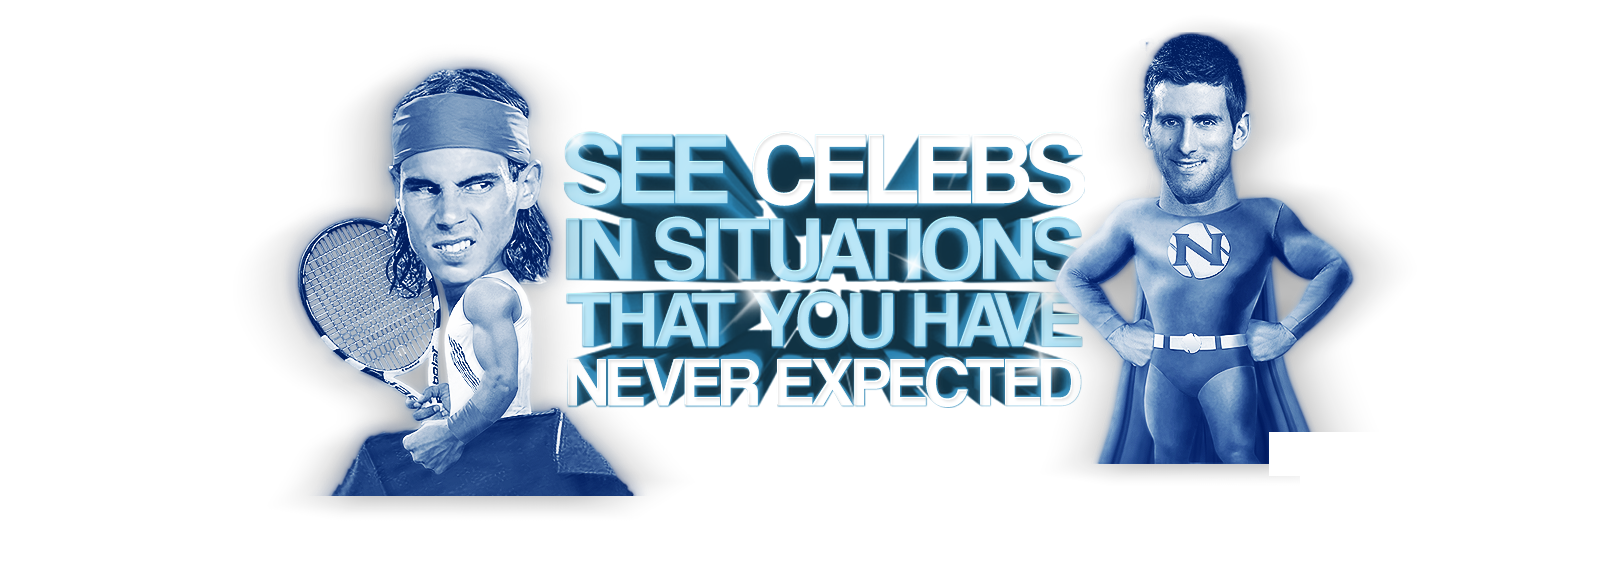
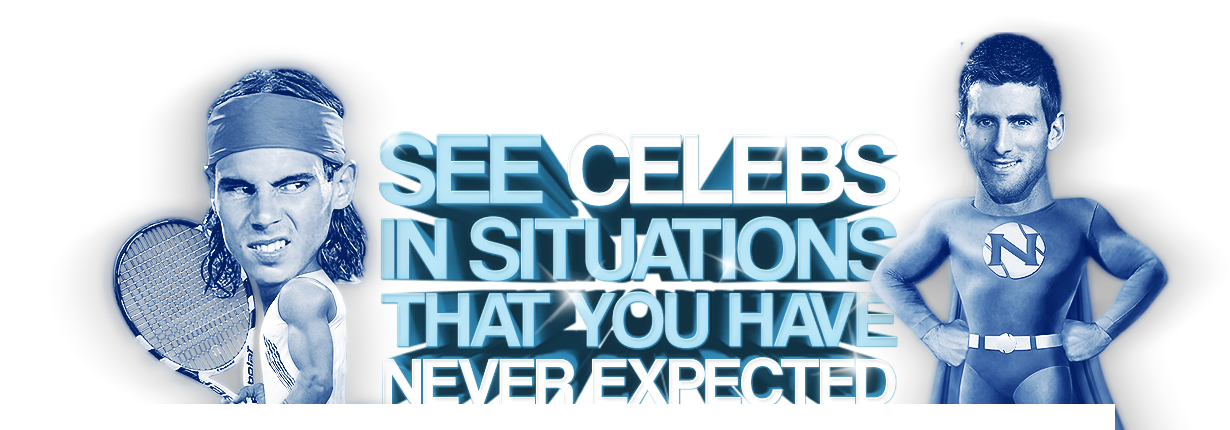
[ADD] Carousel images; [CHG] Minor layout fixes; [CHG] Header image;

diff --git a/pp/css/style.css b/pp/css/style.css
@@ -64,9 +64,11 @@ body {
 }
 
 #characterContainer {
+	margin: auto;
+	/*width: 1600px;*/
 	height: 370px;
-	/*background: url("../images/header2.png") no-repeat;*/
-	/*background-position: -173px -70px;*/
+	background: url("../images/header2.png") no-repeat;
+	background-position: center -60px;
 }
 
 #character1 {
@@ -108,6 +110,18 @@ body {
 #gallerySeparator:hover {
 	height: 28px;
 	background: url("../images/gallerySeparatorOver.png") no-repeat;
+	background-position: 30px 21px;
+}
+
+#gallerySeparator2 {
+	height: 28px;
+	background: url("../images/gallerySeparator2.png") no-repeat;
+	background-position: 30px 21px;
+}
+
+#gallerySeparator2:hover {
+	height: 28px;
+	background: url("../images/gallerySeparator2Over.png") no-repeat;
 	background-position: 30px 21px;
 }
 
@@ -221,7 +235,7 @@ body {
 }
 
 .mustReadImage {
-	margin: 0 10px 0 74px;
+	margin: 0 20px 0 57px;
 	height: 187px;
 	width: 187px;
 	float: left;
@@ -229,8 +243,8 @@ body {
 
 .latestNewsImage {
 	margin: 0 10px 0 74px;
-	height: 187px;
-	width: 187px;
+	height: 200px;
+	width: 200px;
 	float: left;
 }
 
@@ -391,7 +405,7 @@ body {
 }
 
 .latestNewsRow {
-	border-bottom: solid 2px #969699;
+	/*border-bottom: solid 2px #969699;*/
 	padding: 30px 0 10px 0;
 }
 
@@ -413,13 +427,13 @@ body {
 	/*padding: 15px 0 40px 30px;*/
 	width: 253px;
 	height: 343px;
-	background-image: url('../images/news50Cent2.png');
+	background-image: url('../images/news50Cent2.jpg');
 	background-repeat: no-repeat;
 	background-position: 30px 15px;
 }
 
 #newsOtherNextMonth:hover {
-	background-image: url('../images/news50Cent-over.png');
+	background-image: url('../images/news50Cent-over.jpg');
 	background-repeat: no-repeat;
 	background-position: 30px 15px;
 }

diff --git a/pp/galleryDetails.php b/pp/galleryDetails.php
@@ -1,6 +1,15 @@
 <?
 $celebrity = (isset($_GET['celebrity']))?(int)$_GET['celebrity']:1;
 list($celebId, $name, $occupation, $birthDate, $birthPlace, $starSign, $title, $story) = $infosystem->Execute("SELECT `celebId`, `name`, `occupation`, `birthDate`, `birthPlace`, `starSign`, `title`, `story` FROM `fc_celebrity` WHERE `celebId` = {$celebrity}")->fields;
+
+function calculateAge($date) {
+    $today = date('Y-m-d');
+    $dateDet = explode('-', $date);
+    $dateComp = date('Y').'-'.$dateDet[1].'-'.$dateDet[2];
+    $ageComp = date('Y') - $dateDet[0];
+    $age = ($dateComp <= $today) ? $ageComp : ($ageComp - 1);
+    return $age;
+}
 ?>
 
 <!-- include jQuery + carouFredSel plugin -->
@@ -42,12 +51,13 @@ $(document).ready(function() {
 		<div id="sectionLike"><img src="images/clickHereToLike.jpg"></div>
 		<div class="image_carousel">
 			<div id="carousel">
-				<img src="images/carousel-michaelJackson.jpg" style="" />
-				<img src="images/carousel-eminem.jpg" style="" />
-				<img src="images/carousel-PSY.jpg" style="" />
-				<img src="images/carousel-ladyGaga.jpg" style="" />
-				<img src="images/carousel-kobeBryant.jpg" style="" />
-				<img src="images/carousel-justinBieber.jpg" style="" />
+				<?
+				for($j = 1; $j <= 34; $j++) {
+				?>
+				<img src="images/celebrity-<?= $j ?>-carousel.jpg" style="cursor: pointer" onclick="alert('click')" />
+				<?
+				}
+				?>
 			</div>
 			<div class="clearfix"></div>
 			<a class="prev" id="foo2_prev" href="#"><span>prev</span></a>
@@ -64,7 +74,7 @@ $(document).ready(function() {
 		<div id="details">
 			<span class="span1">NAME:</span> <span class="span2"><?= $name ?></span><br>
 			<span class="span1">OCCUPATION:</span> <span class="span2"><?= $occupation ?></span><br>
-			<span class="span1">BIRTH DATE:</span> <span class="span2"><?= $birthDate ?></span><br>
+			<span class="span1">BIRTH DATE:</span> <span class="span2"><?= date('F d, Y', strtotime($birthDate)) ?> / Age <?= calculateAge($birthDate)  ?></span><br>
 			<span class="span1">PLACE OF BIRTH:</span> <span class="span2"><?= $birthPlace ?></span><br>
 			<span class="span1">STAR SIGN:</span> <span class="span2"><?= $starSign ?></span>
 		</div>

diff --git a/pp/f-news-more.php b/pp/f-news-more.php
@@ -1,13 +1,16 @@
 <?
 $pager = (isset($_GET['pager']))?(int)$_GET['pager']:1;
-$rsNews = $infosystem->Execute("SELECT `newsId`, `celebrity`, `date`, `title`, `text` FROM `fc_news` WHERE `mustRead` = 'false' ORDER BY `date` DESC LIMIT ".(0 + ($pager - 1) * 6).", 6");
+$rsNews = $infosystem->Execute("SELECT `newsId`, `celebrity`, `date`, `title`, `text` FROM `fc_news` WHERE `mustRead` = 'false' ORDER BY `date` DESC LIMIT ".(2 + ($pager - 1) * 6).", 6");
 ?>
 <div class="clear"></div>
 <div id="fNewsSeparator"></div>
 <div class="clear"></div>
 <div id="latestNews">
-	<div id="latestNewsHeader">more f-news...</div>
+	<div id="latestNewsHeader">
+        <span>MORE F-NEWS</span>
+    </div>
 	<?
+    $i = 1;
 	while(!$rsNews->EOF) {
 		?>
 		<div class="latestNewsRow">
@@ -24,9 +27,12 @@ $rsNews = $infosystem->Execute("SELECT `newsId`, `celebrity`, `date`, `title`, `
 				</div>
 			</div>
 			<div class="clear"></div>
-		</div>
-		<?
+        </div><?
+        if($i < $rsNews->RecordCount()) { ?>
+	        <div id="gallerySeparator2"></div><?
+        }
 		$rsNews->MoveNext();
+        $i++;
 	}
 	?>
 </div>
@@ -53,7 +59,7 @@ $rsNews = $infosystem->Execute("SELECT `newsId`, `celebrity`, `date`, `title`, `
 		<div>Post comment</div>
 		<div>View All</div>
 	</div>
-	<div class="bull" onclick="location.href = 'index.php?pg=galleryDetails&celebrity=24'" title="Go to the Gallery!"></div>
+	<div class="bull" onclick="location.href = 'index.php?pg=galleryDetails&celebrity=24'" title="Go to Gallery"></div>
 	<div class="clear"></div>
 </div>
 <script>

diff --git a/pp/f-news.php b/pp/f-news.php
@@ -17,7 +17,7 @@ $rsNews = $infosystem->Execute("SELECT `newsId`, `celebrity`, `date`, `title`, `
 <div class="clear"></div>
 <div id="mustRead">
 	<div id="mustReadHeader"><span>MUST READ</span></div>
-	<div>
+    <div class="latestNewsRow">
 		<div class="mustReadImage"><img src="images/news-<?= $newsId ?>-big.jpg"></div>
 		<div class="mustReadBody">
 			<div><?= $date ?></div>
@@ -54,6 +54,7 @@ $rsNews = $infosystem->Execute("SELECT `newsId`, `celebrity`, `date`, `title`, `
 		</div>
 		<div class="clear"></div>
 	</div>
+	<div id="gallerySeparator2"></div>
 	<?
 		$rsNews->MoveNext();
 	}

diff --git a/pp/index.php b/pp/index.php
@@ -31,7 +31,9 @@ $pg = (isset($_GET['pg']))?$_GET['pg']:'home';
 		</div>
 	</div>
 	<div id="headerContainer">
-		<div id="characterContainer"><img src="images/header2.png"></div>
+		<div id="characterContainer">
+<!--			<img src="images/header2.png" style="margin-top: -58px;">-->
+		</div>
 <!--		<div id="characterContainer">-->
 <!--			<div id="character1">-->
 <!--				<img src="images/opra.png">-->

diff --git a/pp/faq.php b/pp/faq.php
@@ -77,7 +77,7 @@
 			<div class="clear"></div>
 		</div>
 	</div>
-	<div id="faqGuster"><img src="images/faq_guster.jpg"></div>
+	<div id="faqGuster" onclick="location.href = 'index.php?pg=galleryDetails&celebrity=4'" title="Go to Gallery"></div>
 	<div class="clear"></div>
 </div>
 <? include('disclaimer.php'); ?>

diff --git a/pp/footer.php b/pp/footer.php
@@ -11,7 +11,7 @@
 			</ul>
 		</div>
 		<div id="arrowUp">
-			<a href="#top" title="Go on the Top!"><img id="arrowUpImg" src="images/arrowUp.jpg"></a>
+			<a href="#top" title="Back to Top"><img id="arrowUpImg" src="images/arrowUp.jpg"></a>
 		</div>
 		<div class="clear"></div>
 	</div>
